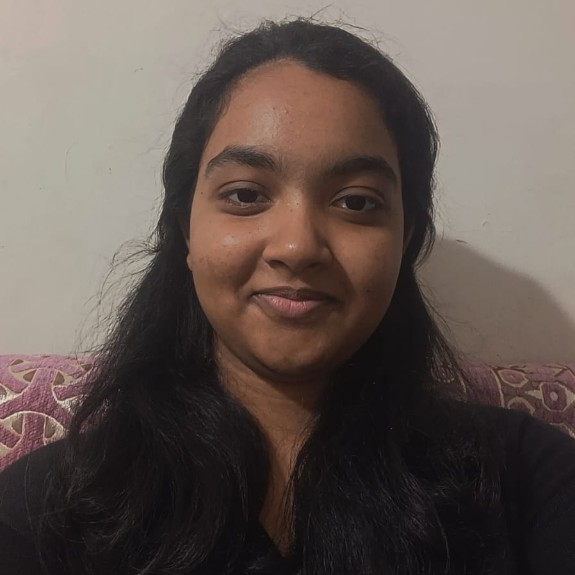
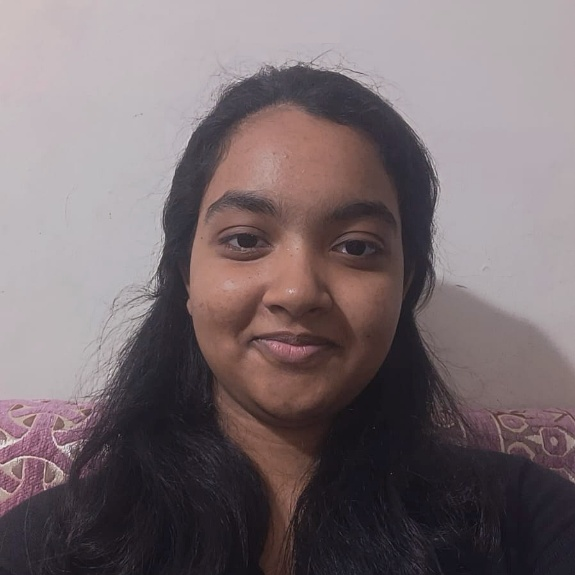
feat: enhance authentic portrait with fair skintone, remove mascot companion remnants, and ensure clean layout alignment

diff --git a/src/components/ProjectModal.jsx b/src/components/ProjectModal.jsx
@@ -2,7 +2,6 @@ import React from 'react';
 import { X, ExternalLink, CheckCircle2, AlertCircle, Sparkles, Layers, BookOpen, Lightbulb, Trophy } from 'lucide-react';
 import { GithubIcon } from './SocialIcons';
 import DevOpsPipeline from './DevOpsPipeline';
-import CuteComputer from './CuteComputer';
 import { 
   PdfDocMascot, 
   PhoneWhatsappMascot, 
@@ -26,7 +25,7 @@ export default function ProjectModal({ project, onClose }) {
       case 'scoopiella':
         return <CoffeeMascot size={56} tooltip="Scoopiella Treats 🍨" />;
       case 'smart-belt':
-        return <div style={{ transform: 'scale(1.1)' }}><CuteComputer placement="nav" /></div>;
+        return <RobotMascot size={56} />;
       case 'lab-manual-ai':
         return <PdfDocMascot size={56} />;
       case 'devops-cicd-demo':

diff --git a/src/components/About.jsx b/src/components/About.jsx
@@ -12,8 +12,6 @@ import {
   User,
   Heart
 } from 'lucide-react';
-import { CoffeeMascot } from './CuteMascots';
-import CuteComputer from './CuteComputer';
 
 export default function About() {
   const educationHistory = [
@@ -129,7 +127,9 @@ export default function About() {
                   </p>
 
                   <div className="about-mascot-footer">
-                    <CoffeeMascot size={42} />
+                    <div className="quote-sparkle-icon">
+                      <Sparkles size={24} className="text-amber-600" />
+                    </div>
                     <div className="mascot-quote">
                       <span>"Driven by curiosity, clean code, and solving real user problems."</span>
                     </div>

diff --git a/src/components/ProjectCard.jsx b/src/components/ProjectCard.jsx
@@ -9,7 +9,6 @@ import {
   CloudMascot,
   CoffeeMascot
 } from './CuteMascots';
-import CuteComputer from './CuteComputer';
 import DevOpsPipeline from './DevOpsPipeline';
 
 export default function ProjectCard({ project, onSelectProject }) {
@@ -24,7 +23,7 @@ export default function ProjectCard({ project, onSelectProject }) {
       case 'scoopiella':
         return <CoffeeMascot size={40} tooltip="Scoopiella Treats 🍨" />;
       case 'smart-belt':
-        return <div style={{ transform: 'scale(0.8)' }}><CuteComputer placement="nav" /></div>;
+        return <RobotMascot size={40} />;
       case 'lab-manual-ai':
         return <PdfDocMascot size={40} />;
       case 'devops-cicd-demo':

diff --git a/src/components/Navbar.jsx b/src/components/Navbar.jsx
@@ -1,6 +1,5 @@
 import React, { useState, useEffect } from 'react';
 import { Menu, X, Sun, Moon, FileText, Terminal } from 'lucide-react';
-import CuteComputer from './CuteComputer';
 
 export default function Navbar({ onOpenResume, onOpenTerminal, darkMode, setDarkMode }) {
   const [scrolled, setScrolled] = useState(false);

diff --git a/src/components/ResumePage.jsx b/src/components/ResumePage.jsx
@@ -6,7 +6,6 @@ import {
   Calendar,
   CheckCircle2
 } from 'lucide-react';
-import CuteComputer from './CuteComputer';
 import { 
   PythonLogo, 
   JavaLogo, 
